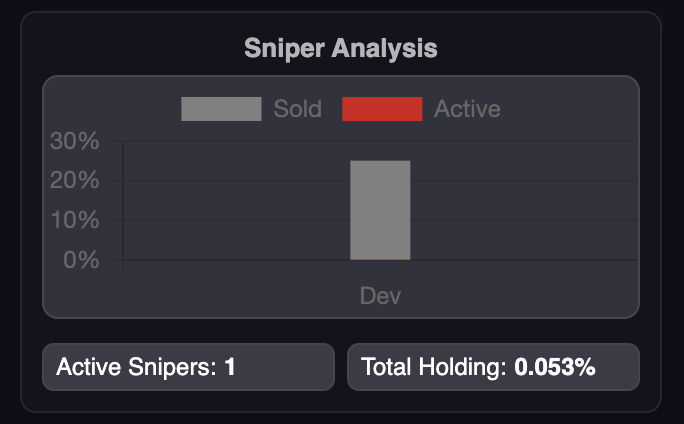
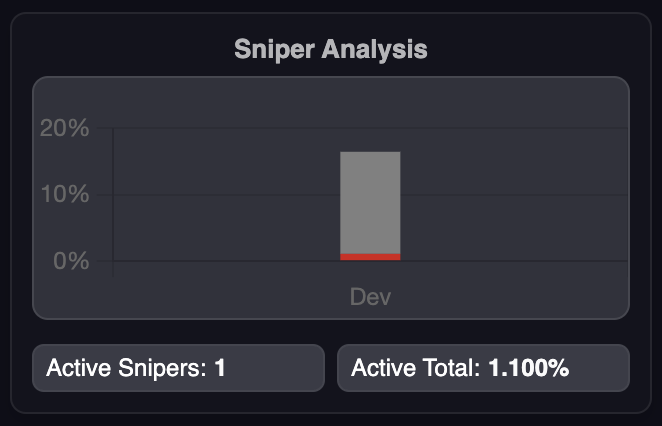
webs

diff --git a/index.html b/index.html
@@ -347,15 +347,16 @@
       box-shadow: 0 6px 12px rgba(0, 0, 0, 0.10);
     }
     .info-panel * {
-      font-weight: normal;
+      font-weight: bold;
     }
     .info-panel.show {
       right: 20px;
     }
     .info-panel strong {
-      display: block;
-      margin-bottom: 5px;
+      display: inline;
+      margin-bottom: 0;
     }
+    
 
     /* Hover image (to and fro) */
     .hover-image {
@@ -896,6 +897,7 @@
         margin-bottom: 20px;
       }
     }
+
   </style>
 </head>
 
@@ -1112,7 +1114,7 @@
         if (!section) return;
         const title = section.getAttribute('data-info');
         const description = section.getAttribute('data-description');
-        infoPanel.innerHTML = `<strong>${title}</strong><p>${description}</p>`;
+        infoPanel.innerHTML = `${title}<p>${description}</p>`;
         const sectionRect = section.getBoundingClientRect();
         const middleColRect = middleCol.getBoundingClientRect();
         const centerPosition =
@@ -1184,6 +1186,8 @@
         }
       }, 11000);
     };
+
+    
   </script>
 </body>
 </html>